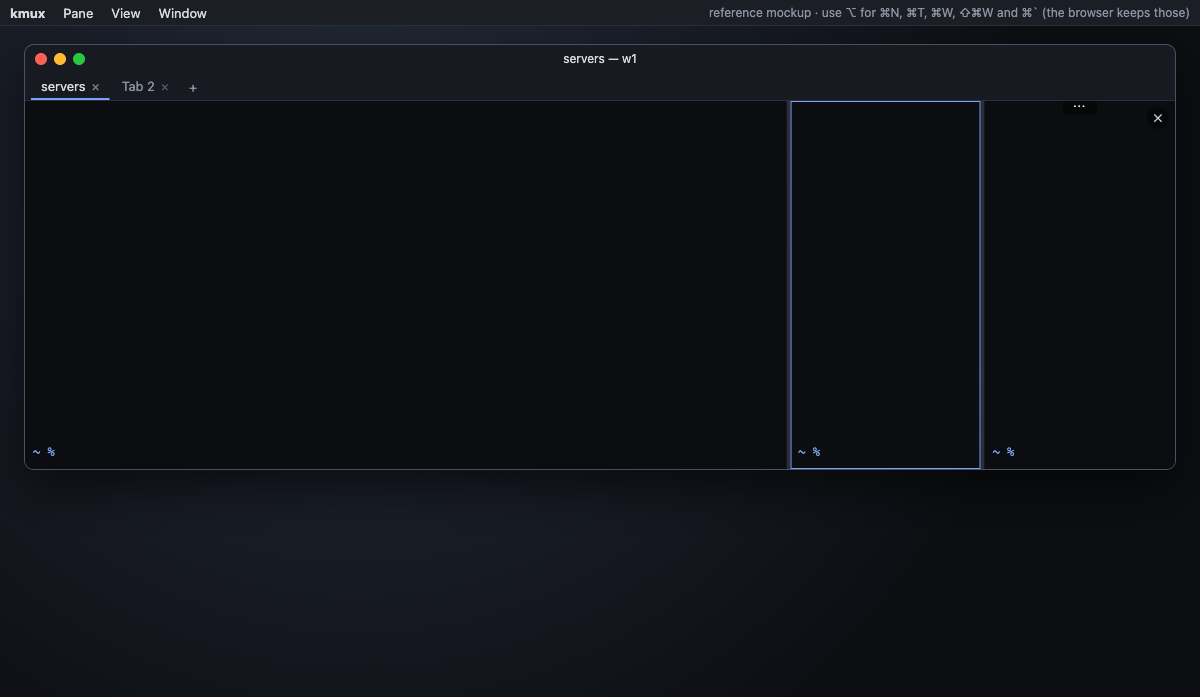
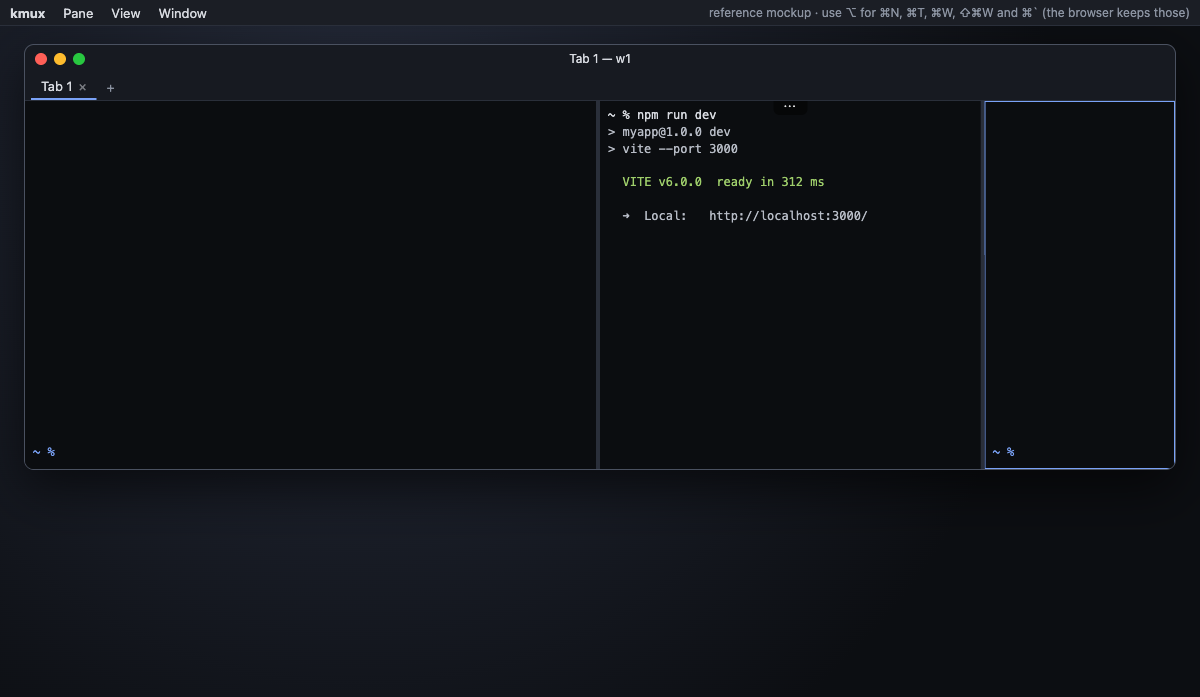
Remove the pane close button (model, app, spec)
Panes close with ⌘W, the Pane menu or the pane's right-click menu. The
hover screenshot now shows only the ⋯ drag handle.

diff --git a/apps/kmux/Sources/Kmux/PaneView.swift b/apps/kmux/Sources/Kmux/PaneView.swift
@@ -1,17 +1,14 @@
 import AppKit
 import KmuxCore
 
-/// A pane on screen: its content, with no chrome except a close button on
-/// hover, a focus outline, and a notice once it exits or fails.
+/// A pane on screen: its content, with no chrome except a focus outline and
+/// a notice once it exits or fails.
 @MainActor
 final class PaneView: NSView {
     let id: String
     let content: NSView
-    var onClose: (() -> Void)?
     private let notice = NSTextField(labelWithString: "")
-    private let closeButton = NSButton()
     private let outline = NSView()
-    private var hover: NSTrackingArea?
 
     init(id: String, content: NSView) {
         self.id = id
@@ -33,14 +30,6 @@ final class PaneView: NSView {
         outline.layer?.borderColor = NSColor.controlAccentColor.withAlphaComponent(0.8).cgColor
         outline.isHidden = true
         addSubview(outline)
-
-        closeButton.image = NSImage(systemSymbolName: "xmark.circle.fill", accessibilityDescription: "Close pane")
-        closeButton.isBordered = false
-        closeButton.contentTintColor = .secondaryLabelColor
-        closeButton.target = self
-        closeButton.action = #selector(closeClicked)
-        closeButton.isHidden = true
-        addSubview(closeButton)
     }
 
     required init?(coder: NSCoder) { fatalError("init(coder:) is not supported") }
@@ -63,18 +52,5 @@ final class PaneView: NSView {
         outline.frame = bounds
         notice.sizeToFit()
         notice.frame.origin = NSPoint(x: (bounds.width - notice.frame.width) / 2, y: 12)
-        closeButton.frame = NSRect(x: bounds.width - 24, y: bounds.height - 24, width: 18, height: 18)
     }
-
-    override func updateTrackingAreas() {
-        super.updateTrackingAreas()
-        if let hover { removeTrackingArea(hover) }
-        hover = NSTrackingArea(rect: bounds, options: [.mouseEnteredAndExited, .activeAlways, .inVisibleRect], owner: self, userInfo: nil)
-        addTrackingArea(hover!)
-    }
-
-    override func mouseEntered(with event: NSEvent) { closeButton.isHidden = false }
-    override func mouseExited(with event: NSEvent) { closeButton.isHidden = true }
-
-    @objc private func closeClicked() { onClose?() }
 }

diff --git a/reference/kmux/index.html b/reference/kmux/index.html
@@ -76,12 +76,9 @@
 
   .pane { position: relative; display: flex; flex-direction: column; min-width: 0; min-height: 0; background: var(--panel); overflow: hidden; }
   .win.key .stage.multi .pane.focused::after { content: ''; position: absolute; inset: 0; border: 1px solid var(--accent); pointer-events: none; z-index: 3; }
-  .pane-close { position: absolute; top: 6px; right: 6px; z-index: 4; width: 22px; height: 22px; padding: 0; border: 0; border-radius: 50%; background: rgba(0,0,0,.55); color: #fff; font-size: 11px; opacity: 0; transition: opacity .12s; }
-  .pane:hover .pane-close { opacity: .8; }
   .pane-grip { position: absolute; top: 0; left: 50%; transform: translateX(-50%); z-index: 4; padding: 0 10px; height: 14px; line-height: 10px; border-radius: 0 0 6px 6px; background: rgba(0,0,0,.55); color: #fff; font-size: 14px; letter-spacing: 1px; cursor: grab; opacity: 0; transition: opacity .12s; user-select: none; }
   .pane:hover .pane-grip { opacity: .8; }
   .pane-grip:hover { opacity: 1 !important; background: var(--accent); }
-  .pane-close:hover { opacity: 1 !important; background: var(--red); }
   .url-edit { position: absolute; top: 8px; left: 50%; transform: translateX(-50%); z-index: 5; width: min(85%, 420px); display: flex; padding: 4px 10px; background: var(--panel-2); border: 1px solid var(--accent); border-radius: 8px; box-shadow: 0 6px 20px rgba(0,0,0,.4); }
   .url-edit input { flex: 1; min-width: 0; font-size: 12px; }
   .pane-body { flex: 1; min-height: 0; position: relative; display: flex; flex-direction: column; }
@@ -597,10 +594,7 @@ function renderPane(p, w) {
   el.append(body, h('div', {
     class: 'pane-grip', title: `Drag to move ${p.name || p.id}`,
     onpointerdown: e => startPaneDrag(e, p, el),
-  }, '⋯'), h('button', {
-    class: 'pane-close', title: `Close ${p.name || p.id}`,
-    onclick: e => { e.stopPropagation(); ui({ cmd: 'close', args: { pane: p.id } }); },
-  }, '✕'));
+  }, '⋯'));
   return el;
 }
 

diff --git a/apps/kmux/Sources/Kmux/TerminalHost.swift b/apps/kmux/Sources/Kmux/TerminalHost.swift
@@ -29,7 +29,6 @@ final class TerminalHost: PaneHost {
         let terminal = TerminalSurfaceView(frame: NSRect(x: 0, y: 0, width: 800, height: 600))
         terminal.onFocus = { [weak self] in self?.onFocus?(id) }
         let view = PaneView(id: id, content: terminal)
-        view.onClose = { [weak self] in self?.onCloseRequest?(id) }
         views[id] = view
         let started = runtime.attach(terminal, command: pane.command, cwd: pane.cwd)
         DispatchQueue.main.async { [weak self] in

diff --git a/docs/kmux-spec.md b/docs/kmux-spec.md
@@ -114,11 +114,11 @@ Every size is a **fraction of its parent split**. The fractions in a split alway
 ### 4.1 No chrome
 
 - Panes have no header, title or border.
-- While the pointer is over a pane, a **✕** close button appears in its top-right corner and a **⋯** drag handle at the top centre, as in Ghostty.
+- While the pointer is over a pane, a **⋯** drag handle appears at the top centre, as in Ghostty. There is no close button: close a pane with ⌘W, the Pane menu, or by right-clicking it.
 - The focused pane has a thin accent outline, shown only in the key window and only when the tab has more than one pane.
 - Errors and exits are shown inside the pane itself (see below).
 
-![On hover: the ⋯ drag handle at the top and ✕ in the corner](img/kmux/pane-hover.png)
+![On hover: the ⋯ drag handle at the top of the pane](img/kmux/pane-hover.png)
 
 ![No chrome: an exited terminal, a web pane waiting for its server and an iOS pane that failed to start](img/kmux/pane-states.png)
 
@@ -166,7 +166,7 @@ The menu bar has **Pane**, **View** and **Window** menus. Right-clicking a pane 
 | Zoom / unzoom | ⇧⌘↩ | Pane menu |
 | Move pane to new window | — | Pane menu |
 | Restart | ⌘R | Pane menu |
-| Close pane | ⌘W | Pane menu, hover ✕ |
+| Close pane | ⌘W | Pane menu |
 | New tab | ⌘T | View menu, **+** |
 | Next / previous tab | ⇧⌘] / ⇧⌘[ | View menu |
 | New window | ⌘N | Window menu |
